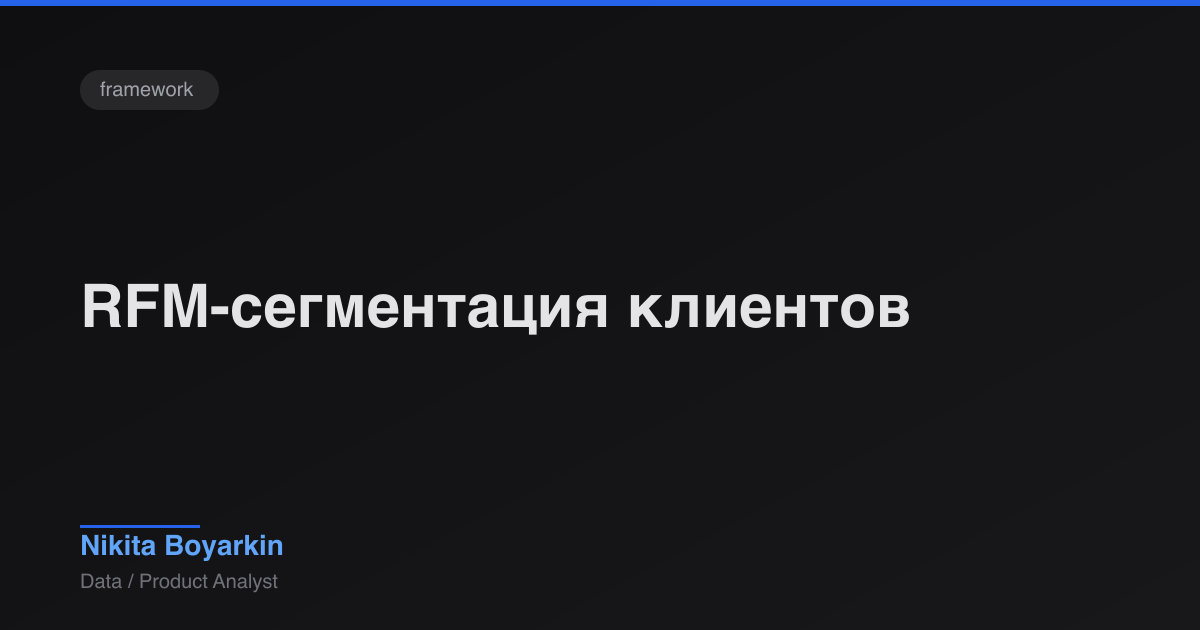
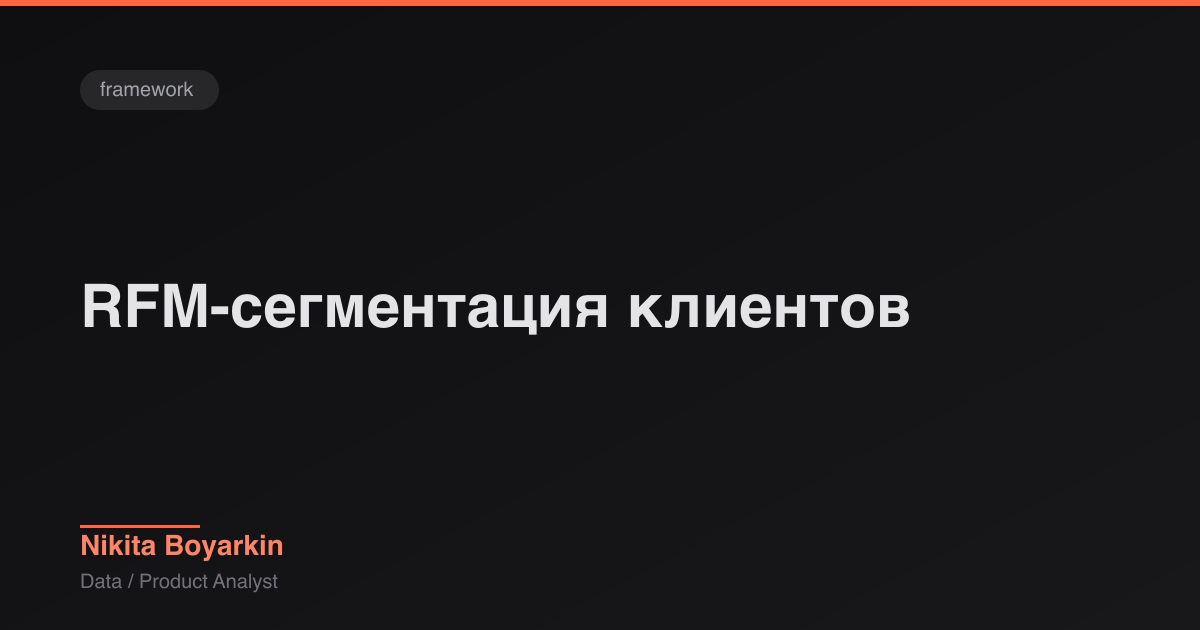
1.8

Changed region(s): [[0.0, 0.0, 1.0, 0.0302], [0.0617, 0.8143, 0.2467, 0.9048]]

diff --git a/src/styles/global.css b/src/styles/global.css
@@ -7,14 +7,14 @@
   --background-tertiary: #27272a;
   --text-normal: #e4e4e7;
   --text-muted: #a1a1aa;
-  --text-accent: #60a5fa;
-  --text-accent-hover: #93c5fd;
-  --button-bg: #2563eb;
-  --button-bg-hover: #1d4ed8;
+  --text-accent: #ff8569;
+  --text-accent-hover: #ffa68a;
+  --button-bg: #ff6643;
+  --button-bg-hover: #e0532f;
   --interactive-normal: #27272a;
   --interactive-hover: #3f3f46;
   --border-color: #3f3f46;
-  --border-active: #60a5fa;
+  --border-active: #ff8569;
   --code-background: #27272a;
   --blockquote-border: #3f3f46;
   --table-border: #3f3f46;
@@ -52,14 +52,14 @@
   --background-tertiary: #f4f4f5;
   --text-normal: #18181b;
   --text-muted: #71717a;
-  --text-accent: #2563eb;
-  --text-accent-hover: #1d4ed8;
-  --button-bg: #2563eb;
-  --button-bg-hover: #1d4ed8;
+  --text-accent: #c63d1f;
+  --text-accent-hover: #a8331a;
+  --button-bg: #ff6643;
+  --button-bg-hover: #e0532f;
   --interactive-normal: #f4f4f5;
   --interactive-hover: #e4e4e7;
   --border-color: #e4e4e7;
-  --border-active: #2563eb;
+  --border-active: #ff6643;
   --code-background: #f4f4f5;
   --blockquote-border: #e4e4e7;
   --table-border: #e4e4e7;
@@ -99,7 +99,7 @@ body {
   left: var(--space-4);
   z-index: 200;
   background: var(--text-accent);
-  color: white;
+  color: #1a1a1a;
   padding: var(--space-2) var(--space-4);
   border-radius: var(--space-2);
   text-decoration: none;
@@ -361,7 +361,7 @@ nav ul.links a[aria-current="page"] {
   align-items: center;
   gap: var(--space-2);
   background: var(--button-bg);
-  color: #fff;
+  color: #1a1a1a;
   padding: var(--space-3) var(--space-5);
   border-radius: var(--radius-md);
   text-decoration: none;
@@ -460,7 +460,7 @@ nav ul.links a[aria-current="page"] {
 /* CTA button inside intro: beat .intro-content a link color (specificity) + drop the animated underline */
 .intro-content a.button,
 .intro-content a.button:hover {
-  color: #fff;
+  color: #1a1a1a;
 }
 
 .intro-content a.button::after {
@@ -644,7 +644,7 @@ nav ul.links a[aria-current="page"] {
   align-items: center;
   gap: var(--space-2);
   background: var(--button-bg);
-  color: #fff;
+  color: #1a1a1a;
   padding: var(--space-3) var(--space-5);
   border-radius: var(--radius-md);
   text-decoration: none;
@@ -1192,7 +1192,7 @@ html {
 /* Selection color */
 ::selection {
   background: var(--text-accent);
-  color: white;
+  color: #1a1a1a;
 }
 
 /* Focus styles for accessibility */

diff --git a/public/demos/telegram/index.html b/public/demos/telegram/index.html
@@ -5,7 +5,7 @@
 <meta name="viewport" content="width=device-width, initial-scale=1">
 <title>Пайплайн Telegram-отчёта</title>
 <style>
-  :root{--bg:#fafaf7; --ink:#1f2430; --muted:#6b7280; --line:#d1d5db; --acc:#2e7d32; --acc2:#3b82f6}
+  :root{--bg:#fafaf7; --ink:#1f2430; --muted:#6b7280; --line:#d1d5db; --acc:#2e7d32; --acc2:#ff6643}
   *{box-sizing:border-box}
   body{margin:0; padding:22px; background:var(--bg); color:var(--ink);
     font-family:-apple-system,BlinkMacSystemFont,"Segoe UI",Roboto,Arial,sans-serif; font-size:14px; line-height:1.5}
